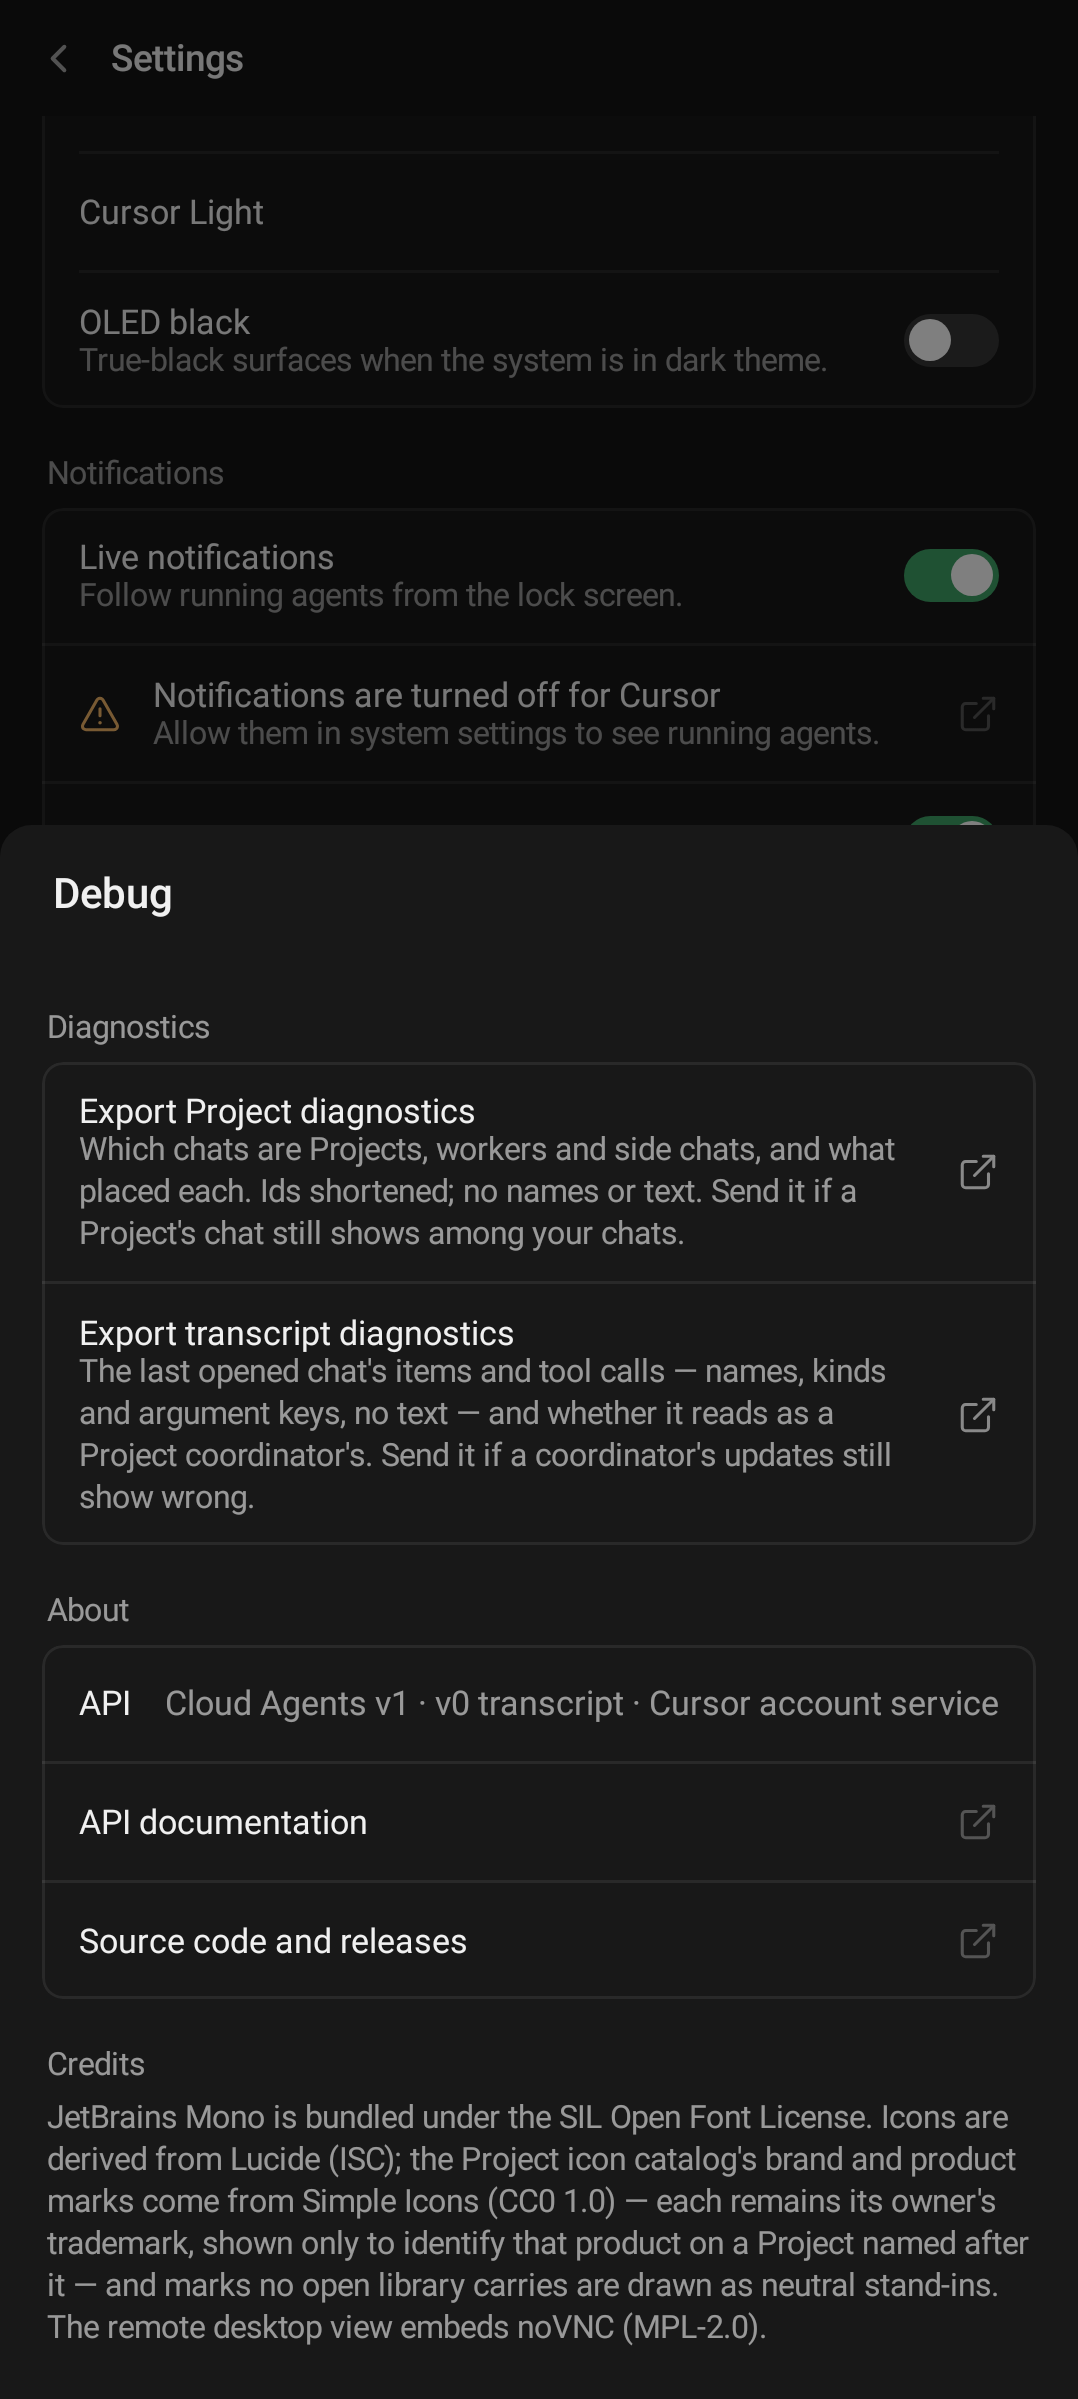
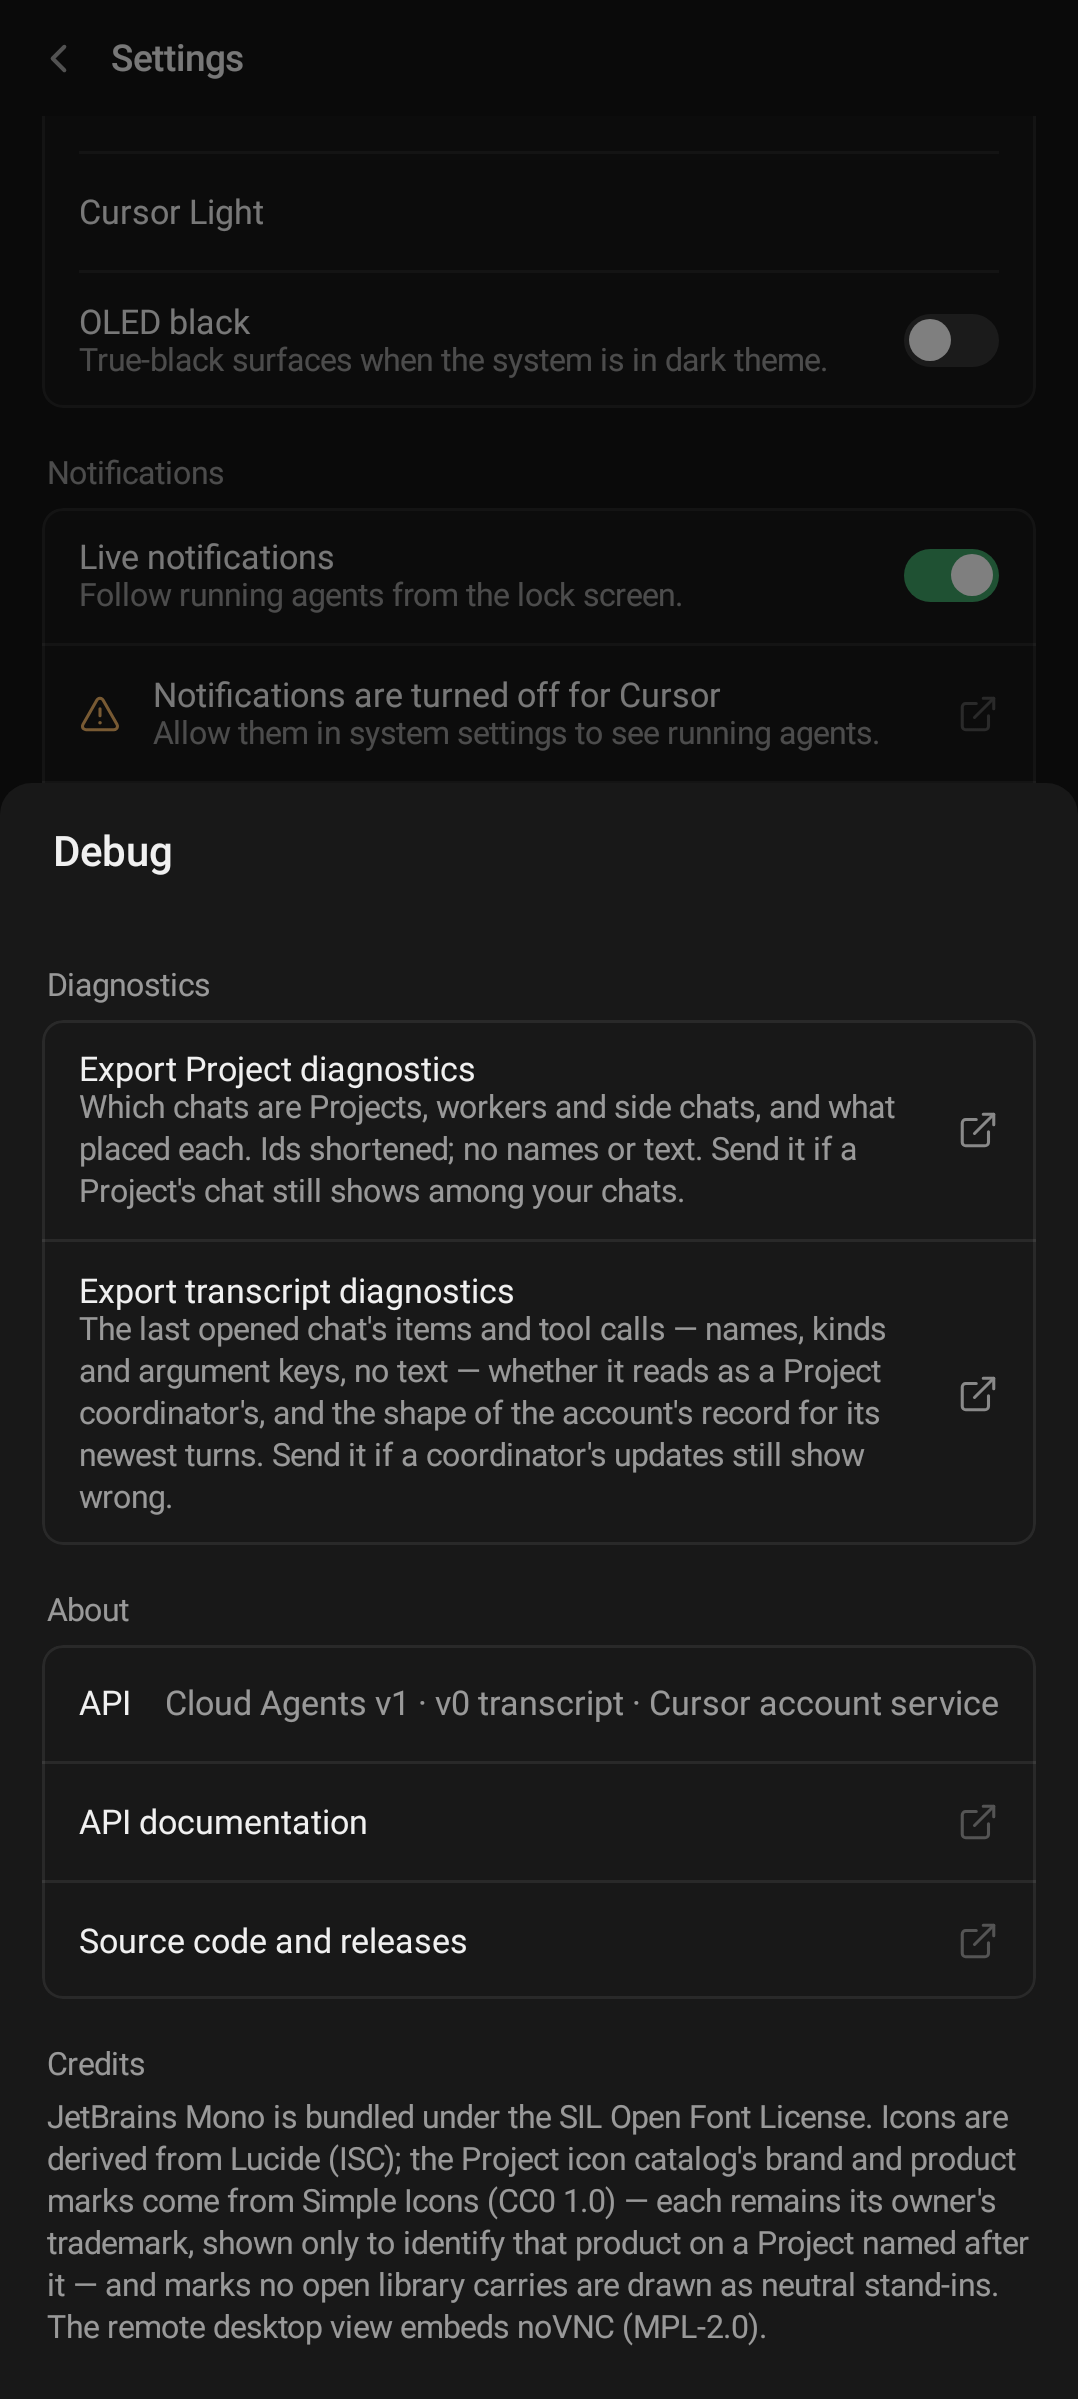
Record reader: joined pieces count as arguments only as a JSON object (the lenient parser takes a bare word for a string); a ConversationMessage typed as the model's is its text, not a prompt; the diagnostics row says the export carries the record's shape

diff --git a/app/src/main/java/com/cursorforandroid/data/api/ConversationRecordApi.kt b/app/src/main/java/com/cursorforandroid/data/api/ConversationRecordApi.kt
@@ -199,6 +199,8 @@ class HeadlessConversationApi(
         /** The step this response is, with the name of the branch that read it (see [StepShape.branch]); a blank step for one nothing reads. */
         fun read(): Pair<HeadlessStep, String> = when {
             userMessage?.text?.isNotBlank() == true -> HeadlessStep(userMessage = userMessage.text) to "user_message"
+            // A `ConversationMessage` typed as the model's is its text, not a prompt, whatever member carries it.
+            humanMessage?.text?.isNotBlank() == true && humanMessage.isAssistant -> HeadlessStep(text = humanMessage.text) to "human_message(ai)"
             humanMessage?.text?.isNotBlank() == true -> HeadlessStep(userMessage = humanMessage.text, projectMode = humanMessage.isProjectMode) to "human_message"
             toolCall != null -> readToolCall(toolCall).let { call -> (call?.let { HeadlessStep(toolCall = it) } ?: HeadlessStep()) to "tool_call[${call?.source ?: DROPPED}]" }
             streamedBackToolCall != null -> readToolCall(streamedBackToolCall).let { call -> (call?.let { HeadlessStep(toolCall = it.copy(isStreaming = true)) } ?: HeadlessStep()) to "streamed_back_tool_call[${call?.source ?: DROPPED}]" }
@@ -223,10 +225,14 @@ class HeadlessConversationApi(
     @Serializable
     private data class UserMessageDto(val text: String? = null)
 
-    /** `ConversationMessage`, of which the text and the mode are read: `agent_mode` is an enum, by name or by number. */
+    /**
+     * `ConversationMessage`, of which the text, the mode and the type are read: `agent_mode` and `type`
+     * (`MessageType`: HUMAN 1, AI 2) are enums, by name or by number.
+     */
     @Serializable
-    private data class HumanMessageDto(val text: String? = null, val agentMode: JsonElement? = null) {
+    private data class HumanMessageDto(val text: String? = null, val agentMode: JsonElement? = null, val type: JsonElement? = null) {
         val isProjectMode: Boolean get() = readProjectMode(agentMode)
+        val isAssistant: Boolean get() = readAssistantType(type)
     }
 
     @Serializable
@@ -260,6 +266,16 @@ class HeadlessConversationApi(
             primitive.intOrNull?.let { return it == AGENT_MODE_PROJECT }
             return primitive.contentOrNull?.uppercase()?.let { it == "PROJECT" || it.endsWith("_PROJECT") } == true
         }
+
+        /** `ConversationMessage.MessageType.MESSAGE_TYPE_AI` (2): the message is the model's, by name or by number. */
+        internal fun readAssistantType(type: JsonElement?): Boolean {
+            val primitive = type as? JsonPrimitive ?: return false
+            primitive.intOrNull?.let { return it == MESSAGE_TYPE_AI }
+            return primitive.contentOrNull?.uppercase()?.let { it == "AI" || it.endsWith("_AI") } == true
+        }
+
+        /** `ConversationMessage.MessageType.MESSAGE_TYPE_AI`. */
+        internal const val MESSAGE_TYPE_AI = 2
 
         /**
          * `aiserver.v1.ClientSideToolV2Call` as this app reads it: the id, the tool's name and its arguments.

diff --git a/app/src/test/java/com/cursorforandroid/data/api/RecordShapesTest.kt b/app/src/test/java/com/cursorforandroid/data/api/RecordShapesTest.kt
@@ -61,6 +61,13 @@ class RecordShapesTest {
         fun branch(text: String): String = HeadlessConversationApi.parseStep(json.parseToJsonElement(text).jsonObject, 7).shape!!.branch
         assertThat(branch("""{"userMessage":{"text":"Hi"}}""")).isEqualTo("user_message")
         assertThat(branch("""{"humanMessage":{"text":"Hi","agentMode":"AGENT_MODE_PROJECT"}}""")).isEqualTo("human_message")
+        assertThat(branch("""{"humanMessage":{"text":"Hi","type":"MESSAGE_TYPE_HUMAN"}}""")).isEqualTo("human_message")
+        // A ConversationMessage typed as the model's is its text, not a prompt.
+        assertThat(branch("""{"humanMessage":{"text":"Told Bennett.","type":"MESSAGE_TYPE_AI"}}""")).isEqualTo("human_message(ai)")
+        val ai = HeadlessConversationApi.parseStep(json.parseToJsonElement("""{"humanMessage":{"text":"Told Bennett.","type":2}}""").jsonObject, 1)
+        assertThat(ai.text).isEqualTo("Told Bennett.")
+        assertThat(ai.userMessage).isNull()
+        assertThat(ai.shape!!.keys).isEqualTo("{humanMessage:{text:str(13),type:num}}")
         assertThat(branch("""{"text":"Told Bennett."}""")).isEqualTo("text")
         assertThat(branch("""{"thinking":{"text":"Hm."}}""")).isEqualTo("thinking")
         assertThat(branch("""{"toolCall":{"toolCallId":"t","name":"SendMessage","rawArgs":"{\"text\":{\"content\":\"hi\"}}"}}""")).isEqualTo("tool_call[id=toolCallId name=name args=json]")

diff --git a/app/src/main/java/com/cursorforandroid/domain/TranscriptDiagnostics.kt b/app/src/main/java/com/cursorforandroid/domain/TranscriptDiagnostics.kt
@@ -4,8 +4,10 @@ package com.cursorforandroid.domain
  * The redacted account of one chat's transcript as this build reads it, for a coordinator's chat that still shows
  * its notes as messages or its messages as bare rows. One line per item — its kind, and for a tool call the tool's
  * name, the kind it is filed under, its status, what payload was read off it and the names of its argument keys —
- * plus the decision that reads the chat as a coordinator's and what made it. No text of any message, prompt, note,
- * report or argument is in it, and ids are cut to their tails, so it can be sent as it is.
+ * plus the decision that reads the chat as a coordinator's and what made it, and, in Extended mode, the shape of the
+ * account's record for the chat's newest turns: every step's keys and value types and the parser branch that took
+ * it (see [TurnShape]). No text of any message, prompt, note, report or argument is in it, and ids are cut to their
+ * tails, so it can be sent as it is.
  */
 /** The order the server listed a chat's runs in, as the load read it off the first page (see `ConversationRepository.newestRuns`). */
 enum class RunOrder { NEWEST_FIRST, OLDEST_FIRST }

diff --git a/app/src/main/java/com/cursorforandroid/data/repo/HeadlessTranscript.kt b/app/src/main/java/com/cursorforandroid/data/repo/HeadlessTranscript.kt
@@ -185,7 +185,9 @@ object HeadlessTranscript {
                 // A piece that repeats what came before, with more, is the whole so far; anything else is the next piece.
                 if (piece.startsWith(pieces)) pieces.setLength(0)
                 pieces.append(piece)
-                if (args == null) runCatching { CursorJson.parseToJsonElement(pieces.toString()) }.getOrNull()?.let { args = it; joinedFrom = pieceCount }
+                // Joined pieces are the arguments once they read as a JSON object — an object, since the lenient
+                // parser would take a bare word of prose for a string.
+                if (args == null) runCatching { CursorJson.parseToJsonElement(pieces.toString()) }.getOrNull()?.takeIf { it is JsonObject }?.let { args = it; joinedFrom = pieceCount }
             }
         }
 

diff --git a/app/src/main/java/com/cursorforandroid/ui/settings/TranscriptDiagnosticsRow.kt b/app/src/main/java/com/cursorforandroid/ui/settings/TranscriptDiagnosticsRow.kt
@@ -80,6 +80,6 @@ fun TranscriptDiagnosticsRow(graph: AppGraph, share: ((String) -> Unit)? = null)
 
 object TranscriptDiagnosticsCopy {
     const val TITLE = "Export transcript diagnostics"
-    const val SUBTITLE = "The last opened chat's items and tool calls — names, kinds and argument keys, no text — and whether it reads as a Project coordinator's. Send it if a coordinator's updates still show wrong."
+    const val SUBTITLE = "The last opened chat's items and tool calls — names, kinds and argument keys, no text — whether it reads as a Project coordinator's, and the shape of the account's record for its newest turns. Send it if a coordinator's updates still show wrong."
     const val TAG = "transcript-diagnostics"
 }
